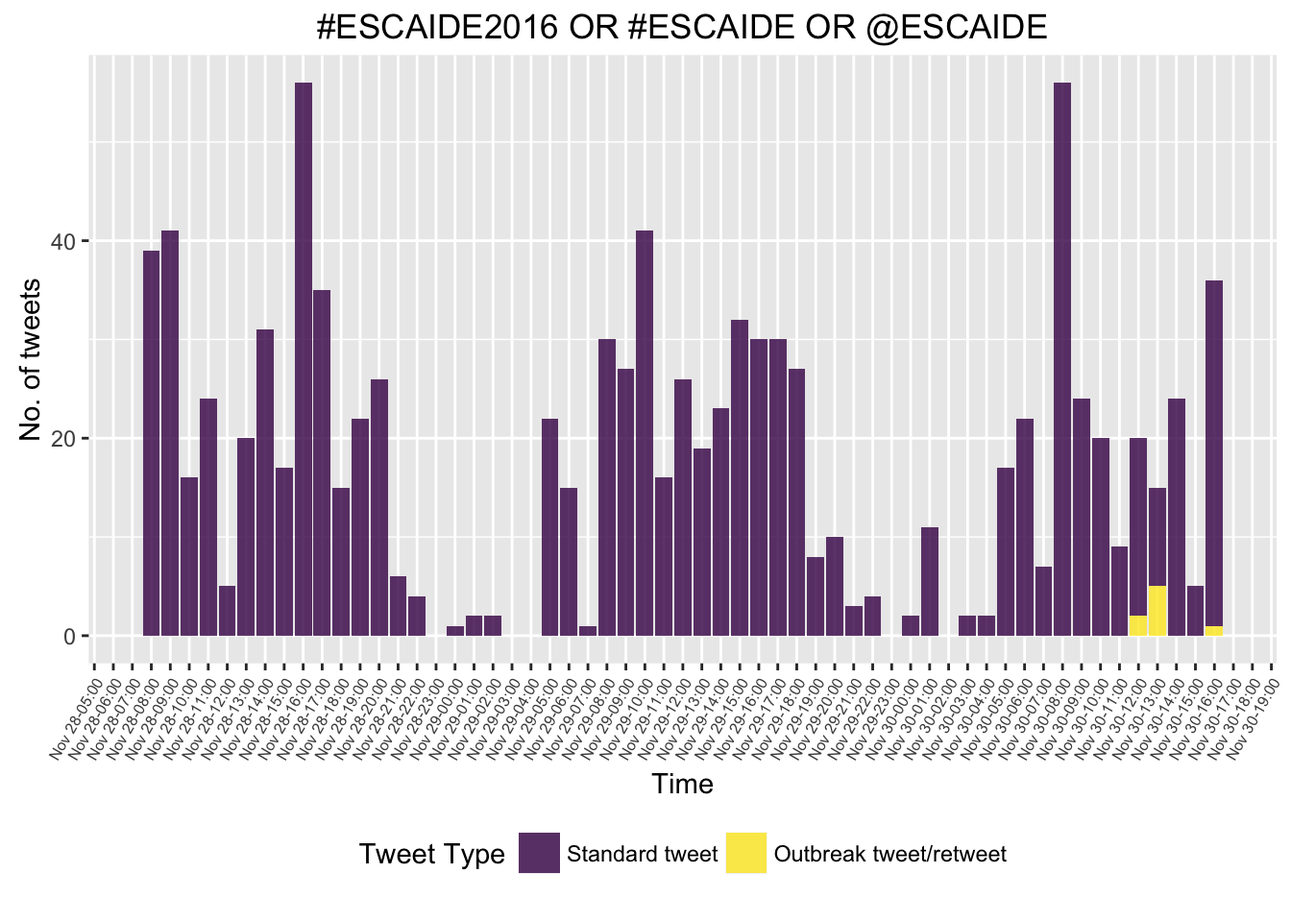
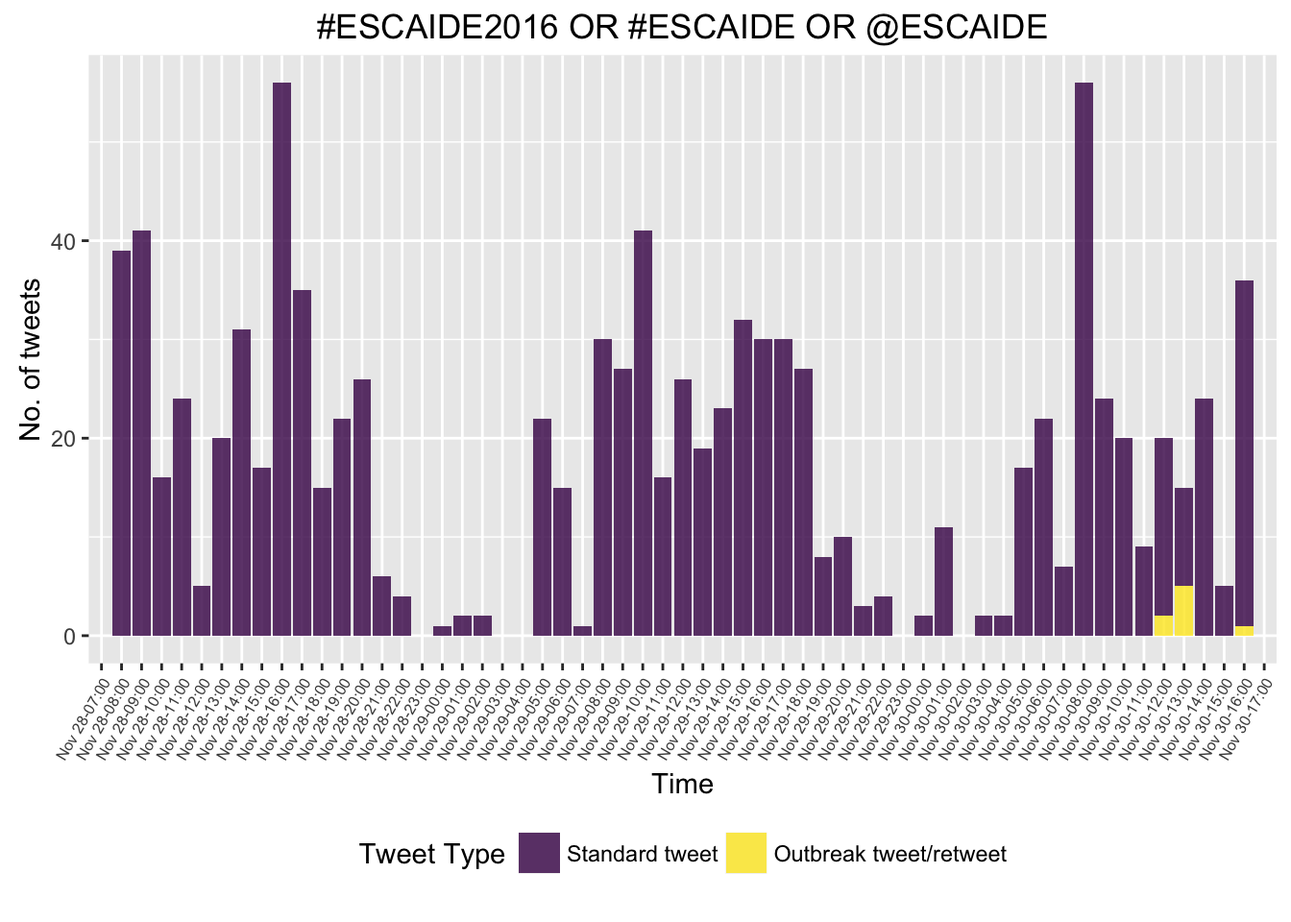
trying to merge with unpushed previous work (git stage sucks)

Changed region(s): [[0.0312, 0.0625, 1.0, 0.8438]]

diff --git a/docs/articles/sts-conversions.html b/docs/articles/sts-conversions.html
@@ -118,8 +118,8 @@ haxts &lt;-<span class="st"> </span><span class="kw">as.xts</span>(ha.sts)
 <p>Up to old <strong>xts</strong> 0.9-7, this will only plot the first time series Newer versions of <strong>xts</strong> are available from the <a href="https://github.com/joshuaulrich/xts"><strong>xts</strong> GitHub repository</a>.</p>
 <p>This also enables the use of the <a href="https://CRAN.R-project.org/package=dygraphs"><strong>dygraphs</strong></a> package for interactive visualization:</p>
 <div class="sourceCode"><pre class="sourceCode r"><code class="sourceCode r">dygraphs::<span class="kw">dygraph</span>(haxts)</code></pre></div>
-<div id="htmlwidget-6008" style="width:100%;height:480px;" class="dygraphs html-widget"></div>
-<script type="application/json" data-for="htmlwidget-6008">{"x":{"attrs":{"labels":["week","chwi","frkr","lich","mahe","mitt","neuk","pank","rein","span","zehl","scho","trko"],"legend":"auto","retainDateWindow":false,"axes":{"x":{"pixelsPerLabel":60}}},"scale":"weekly","annotations":[],"shadings":[],"events":[],"format":"date","data":[["2001-01-01T00:00:00.000Z","2001-01-08T00:00:00.000Z","2001-01-15T00:00:00.000Z","2001-01-22T00:00:00.000Z","2001-01-29T00:00:00.000Z","2001-02-05T00:00:00.000Z","2001-02-12T00:00:00.000Z","2001-02-19T00:00:00.000Z","2001-02-26T00:00:00.000Z","2001-03-05T00:00:00.000Z","2001-03-12T00:00:00.000Z","2001-03-19T00:00:00.000Z","2001-03-26T00:00:00.000Z","2001-04-02T00:00:00.000Z","2001-04-09T00:00:00.000Z","2001-04-16T00:00:00.000Z","2001-04-23T00:00:00.000Z","2001-04-30T00:00:00.000Z","2001-05-07T00:00:00.000Z","2001-05-14T00:00:00.000Z","2001-05-21T00:00:00.000Z","2001-05-28T00:00:00.000Z","2001-06-04T00:00:00.000Z","2001-06-11T00:00:00.000Z","2001-06-18T00:00:00.000Z","2001-06-25T00:00:00.000Z","2001-07-02T00:00:00.000Z","2001-07-09T00:00:00.000Z","2001-07-16T00:00:00.000Z","2001-07-23T00:00:00.000Z","2001-07-30T00:00:00.000Z","2001-08-06T00:00:00.000Z","2001-08-13T00:00:00.000Z","2001-08-20T00:00:00.000Z","2001-08-27T00:00:00.000Z","2001-09-03T00:00:00.000Z","2001-09-10T00:00:00.000Z","2001-09-17T00:00:00.000Z","2001-09-24T00:00:00.000Z","2001-10-01T00:00:00.000Z","2001-10-08T00:00:00.000Z","2001-10-15T00:00:00.000Z","2001-10-22T00:00:00.000Z","2001-10-29T00:00:00.000Z","2001-11-05T00:00:00.000Z","2001-11-12T00:00:00.000Z","2001-11-19T00:00:00.000Z","2001-11-26T00:00:00.000Z","2001-12-03T00:00:00.000Z","2001-12-10T00:00:00.000Z","2001-12-17T00:00:00.000Z","2001-12-24T00:00:00.000Z","2001-12-31T00:00:00.000Z","2002-01-07T00:00:00.000Z","2002-01-14T00:00:00.000Z","2002-01-21T00:00:00.000Z","2002-01-28T00:00:00.000Z","2002-02-04T00:00:00.000Z","2002-02-11T00:00:00.000Z","2002-02-18T00:00:00.000Z","2002-02-25T00:00:00.000Z","2002-03-04T00:00:00.000Z","2002-03-11T00:00:00.000Z","2002-03-18T00:00:00.000Z","2002-03-25T00:00:00.000Z","2002-04-01T00:00:00.000Z","2002-04-08T00:00:00.000Z","2002-04-15T00:00:00.000Z","2002-04-22T00:00:00.000Z","2002-04-29T00:00:00.000Z","2002-05-06T00:00:00.000Z","2002-05-13T00:00:00.000Z","2002-05-20T00:00:00.000Z","2002-05-27T00:00:00.000Z","2002-06-03T00:00:00.000Z","2002-06-10T00:00:00.000Z","2002-06-17T00:00:00.000Z","2002-06-24T00:00:00.000Z","2002-07-01T00:00:00.000Z","2002-07-08T00:00:00.000Z","2002-07-15T00:00:00.000Z","2002-07-22T00:00:00.000Z","2002-07-29T00:00:00.000Z","2002-08-05T00:00:00.000Z","2002-08-12T00:00:00.000Z","2002-08-19T00:00:00.000Z","2002-08-26T00:00:00.000Z","2002-09-02T00:00:00.000Z","2002-09-09T00:00:00.000Z","2002-09-16T00:00:00.000Z","2002-09-23T00:00:00.000Z","2002-09-30T00:00:00.000Z","2002-10-07T00:00:00.000Z","2002-10-14T00:00:00.000Z","2002-10-21T00:00:00.000Z","2002-10-28T00:00:00.000Z","2002-11-04T00:00:00.000Z","2002-11-11T00:00:00.000Z","2002-11-18T00:00:00.000Z","2002-11-25T00:00:00.000Z","2002-12-02T00:00:00.000Z","2002-12-09T00:00:00.000Z","2002-12-16T00:00:00.000Z","2002-12-23T00:00:00.000Z","2002-12-30T00:00:00.000Z","2003-01-06T00:00:00.000Z","2003-01-13T00:00:00.000Z","2003-01-20T00:00:00.000Z","2003-01-27T00:00:00.000Z","2003-02-03T00:00:00.000Z","2003-02-10T00:00:00.000Z","2003-02-17T00:00:00.000Z","2003-02-24T00:00:00.000Z","2003-03-03T00:00:00.000Z","2003-03-10T00:00:00.000Z","2003-03-17T00:00:00.000Z","2003-03-24T00:00:00.000Z","2003-03-31T00:00:00.000Z","2003-04-07T00:00:00.000Z","2003-04-14T00:00:00.000Z","2003-04-21T00:00:00.000Z","2003-04-28T00:00:00.000Z","2003-05-05T00:00:00.000Z","2003-05-12T00:00:00.000Z","2003-05-19T00:00:00.000Z","2003-05-26T00:00:00.000Z","2003-06-02T00:00:00.000Z","2003-06-09T00:00:00.000Z","2003-06-16T00:00:00.000Z","2003-06-23T00:00:00.000Z","2003-06-30T00:00:00.000Z","2003-07-07T00:00:00.000Z","2003-07-14T00:00:00.000Z","2003-07-21T00:00:00.000Z","2003-07-28T00:00:00.000Z","2003-08-04T00:00:00.000Z","2003-08-11T00:00:00.000Z","2003-08-18T00:00:00.000Z","2003-08-25T00:00:00.000Z","2003-09-01T00:00:00.000Z","2003-09-08T00:00:00.000Z","2003-09-15T00:00:00.000Z","2003-09-22T00:00:00.000Z","2003-09-29T00:00:00.000Z","2003-10-06T00:00:00.000Z","2003-10-13T00:00:00.000Z","2003-10-20T00:00:00.000Z","2003-10-27T00:00:00.000Z","2003-11-03T00:00:00.000Z","2003-11-10T00:00:00.000Z","2003-11-17T00:00:00.000Z","2003-11-24T00:00:00.000Z","2003-12-01T00:00:00.000Z","2003-12-08T00:00:00.000Z","2003-12-15T00:00:00.000Z","2003-12-22T00:00:00.000Z","2003-12-29T00:00:00.000Z","2004-01-05T00:00:00.000Z","2004-01-12T00:00:00.000Z","2004-01-19T00:00:00.000Z","2004-01-26T00:00:00.000Z","2004-02-02T00:00:00.000Z","2004-02-09T00:00:00.000Z","2004-02-16T00:00:00.000Z","2004-02-23T00:00:00.000Z","2004-03-01T00:00:00.000Z","2004-03-08T00:00:00.000Z","2004-03-15T00:00:00.000Z","2004-03-22T00:00:00.000Z","2004-03-29T00:00:00.000Z","2004-04-05T00:00:00.000Z","2004-04-12T00:00:00.000Z","2004-04-19T00:00:00.000Z","2004-04-26T00:00:00.000Z","2004-05-03T00:00:00.000Z","2004-05-10T00:00:00.000Z","2004-05-17T00:00:00.000Z","2004-05-24T00:00:00.000Z","2004-05-31T00:00:00.000Z","2004-06-07T00:00:00.000Z","2004-06-14T00:00:00.000Z","2004-06-21T00:00:00.000Z","2004-06-28T00:00:00.000Z","2004-07-05T00:00:00.000Z","2004-07-12T00:00:00.000Z","2004-07-19T00:00:00.000Z","2004-07-26T00:00:00.000Z","2004-08-02T00:00:00.000Z","2004-08-09T00:00:00.000Z","2004-08-16T00:00:00.000Z","2004-08-23T00:00:00.000Z","2004-08-30T00:00:00.000Z","2004-09-06T00:00:00.000Z","2004-09-13T00:00:00.000Z","2004-09-20T00:00:00.000Z","2004-09-27T00:00:00.000Z","2004-10-04T00:00:00.000Z","2004-10-11T00:00:00.000Z","2004-10-18T00:00:00.000Z","2004-10-25T00:00:00.000Z","2004-11-01T00:00:00.000Z","2004-11-08T00:00:00.000Z","2004-11-15T00:00:00.000Z","2004-11-22T00:00:00.000Z","2004-11-29T00:00:00.000Z","2004-12-06T00:00:00.000Z","2004-12-13T00:00:00.000Z","2004-12-20T00:00:00.000Z","2004-12-27T00:00:00.000Z","2005-01-03T00:00:00.000Z","2005-01-10T00:00:00.000Z","2005-01-17T00:00:00.000Z","2005-01-24T00:00:00.000Z","2005-01-31T00:00:00.000Z","2005-02-07T00:00:00.000Z","2005-02-14T00:00:00.000Z","2005-02-21T00:00:00.000Z","2005-02-28T00:00:00.000Z","2005-03-07T00:00:00.000Z","2005-03-14T00:00:00.000Z","2005-03-21T00:00:00.000Z","2005-03-28T00:00:00.000Z","2005-04-04T00:00:00.000Z","2005-04-11T00:00:00.000Z","2005-04-18T00:00:00.000Z","2005-04-25T00:00:00.000Z","2005-05-02T00:00:00.000Z","2005-05-09T00:00:00.000Z","2005-05-16T00:00:00.000Z","2005-05-23T00:00:00.000Z","2005-05-30T00:00:00.000Z","2005-06-06T00:00:00.000Z","2005-06-13T00:00:00.000Z","2005-06-20T00:00:00.000Z","2005-06-27T00:00:00.000Z","2005-07-04T00:00:00.000Z","2005-07-11T00:00:00.000Z","2005-07-18T00:00:00.000Z","2005-07-25T00:00:00.000Z","2005-08-01T00:00:00.000Z","2005-08-08T00:00:00.000Z","2005-08-15T00:00:00.000Z","2005-08-22T00:00:00.000Z","2005-08-29T00:00:00.000Z","2005-09-05T00:00:00.000Z","2005-09-12T00:00:00.000Z","2005-09-19T00:00:00.000Z","2005-09-26T00:00:00.000Z","2005-10-03T00:00:00.000Z","2005-10-10T00:00:00.000Z","2005-10-17T00:00:00.000Z","2005-10-24T00:00:00.000Z","2005-10-31T00:00:00.000Z","2005-11-07T00:00:00.000Z","2005-11-14T00:00:00.000Z","2005-11-21T00:00:00.000Z","2005-11-28T00:00:00.000Z","2005-12-05T00:00:00.000Z","2005-12-12T00:00:00.000Z","2005-12-19T00:00:00.000Z","2005-12-26T00:00:00.000Z","2006-01-02T00:00:00.000Z","2006-01-09T00:00:00.000Z","2006-01-16T00:00:00.000Z","2006-01-23T00:00:00.000Z","2006-01-30T00:00:00.000Z","2006-02-06T00:00:00.000Z","2006-02-13T00:00:00.000Z","2006-02-20T00:00:00.000Z","2006-02-27T00:00:00.000Z","2006-03-06T00:00:00.000Z","2006-03-13T00:00:00.000Z","2006-03-20T00:00:00.000Z","2006-03-27T00:00:00.000Z","2006-04-03T00:00:00.000Z","2006-04-10T00:00:00.000Z","2006-04-17T00:00:00.000Z","2006-04-24T00:00:00.000Z","2006-05-01T00:00:00.000Z","2006-05-08T00:00:00.000Z","2006-05-15T00:00:00.000Z","2006-05-22T00:00:00.000Z","2006-05-29T00:00:00.000Z","2006-06-05T00:00:00.000Z","2006-06-12T00:00:00.000Z","2006-06-19T00:00:00.000Z","2006-06-26T00:00:00.000Z","2006-07-03T00:00:00.000Z","2006-07-10T00:00:00.000Z","2006-07-17T00:00:00.000Z"],[0,0,0,0,0,0,0,0,0,1,0,1,1,0,1,0,1,0,0,0,0,1,0,0,0,0,0,0,0,0,0,0,1,0,0,0,1,0,0,0,1,0,1,0,0,0,0,0,0,1,1,0,2,0,0,0,1,1,0,0,0,0,0,0,0,0,0,0,0,0,0,0,0,0,0,0,0,0,0,0,1,1,0,0,1,1,0,0,0,0,0,0,0,0,0,0,0,0,0,0,0,0,0,0,0,1,0,0,0,0,0,0,0,0,0,0,1,0,0,0,0,0,0,0,0,0,0,0,0,0,0,0,0,0,0,0,0,0,0,0,0,0,1,0,0,0,0,0,0,0,0,0,0,1,0,0,0,0,0,0,0,0,0,0,0,0,0,0,0,0,0,0,0,0,0,0,0,0,0,0,0,0,0,0,0,0,0,0,1,1,0,0,0,0,0,0,0,1,0,0,0,0,0,0,0,0,0,0,1,0,0,0,1,0,0,0,0,0,0,0,0,0,0,0,0,0,0,0,0,0,1,0,0,0,0,0,0,0,0,0,0,0,0,0,0,0,0,0,0,0,0,0,0,0,1,0,0,0,0,0,0,0,0,0,0,0,0,1,0,0,0,0,0,0,0,0,1,0,1,0,0,0,0,0,0,0,0,0,0,0],[0,0,0,0,0,0,0,0,0,0,0,0,1,1,0,0,0,0,0,1,0,0,0,0,1,0,0,0,0,0,0,0,0,0,0,0,0,0,0,1,0,0,0,0,0,0,0,0,1,0,0,0,0,0,0,1,0,0,0,0,0,0,0,0,0,0,1,0,0,0,0,1,0,0,0,0,0,0,0,0,0,0,0,0,0,0,0,0,0,1,1,1,1,0,0,0,0,0,0,0,0,0,0,0,0,0,0,0,0,0,0,0,0,0,0,0,0,0,0,0,0,0,0,0,1,0,0,0,0,0,0,0,0,1,0,0,0,0,0,0,0,0,0,0,0,0,0,0,1,0,0,0,0,0,0,0,0,0,0,0,0,0,0,1,0,0,0,0,1,0,0,0,0,0,0,0,0,0,0,0,0,0,0,1,0,0,0,0,0,0,0,0,0,0,0,0,0,1,1,0,0,0,0,0,0,0,0,0,0,0,0,0,0,0,0,0,1,0,0,0,0,0,0,0,0,1,0,0,0,0,0,0,0,1,0,0,0,0,0,0,0,0,0,0,0,0,1,0,0,0,0,0,0,0,0,0,0,0,0,0,0,0,0,0,0,0,1,0,0,0,0,0,0,0,0,0,1,0,0,0,0,0,0,0,0,1,1,0,0,0],[0,0,0,0,0,0,0,0,0,0,0,0,0,0,1,0,0,0,0,0,0,0,0,0,0,0,0,0,0,0,0,0,0,0,0,0,0,0,0,0,0,0,0,0,0,0,0,0,0,0,0,0,0,0,0,0,0,0,0,0,0,0,0,0,0,0,0,0,0,0,0,0,0,0,0,0,0,0,0,0,0,0,0,0,0,0,0,0,0,0,0,0,0,0,0,0,0,0,0,0,0,0,0,0,0,0,0,0,0,0,0,0,0,0,0,0,0,0,0,1,0,0,0,0,0,0,0,0,0,0,0,0,0,0,0,0,0,0,0,0,0,0,0,1,0,0,0,0,0,0,0,0,0,0,0,0,0,0,0,0,0,0,0,0,0,0,1,0,0,0,0,0,0,0,0,0,0,0,0,0,0,0,0,0,0,0,0,0,0,0,0,0,0,0,0,0,0,0,0,0,0,0,0,0,0,0,0,0,0,0,0,0,0,0,0,0,0,0,0,0,0,0,0,0,0,0,0,0,0,0,0,0,0,0,0,0,0,0,0,0,0,0,0,0,0,0,0,0,0,0,0,0,0,0,0,0,0,0,0,0,0,0,0,0,0,0,0,0,0,1,0,0,0,0,0,0,0,0,1,2,0,0,0,0,0,1,0,0,0,0],[0,0,0,0,0,0,0,0,0,0,0,0,0,0,0,0,0,0,0,0,0,0,0,0,0,0,0,0,0,0,0,0,1,0,0,0,0,0,0,0,0,0,0,0,0,0,0,0,0,0,0,0,0,0,0,0,0,0,0,0,0,0,0,0,0,0,0,0,0,0,0,0,0,0,0,0,0,0,0,0,0,0,0,0,0,0,0,0,0,0,0,0,0,0,0,0,1,0,0,0,0,0,0,0,0,0,0,0,1,0,0,0,0,0,0,0,0,0,0,0,1,0,0,0,0,0,0,0,0,0,0,0,0,0,0,0,0,0,0,0,0,0,0,0,0,0,0,0,0,0,0,0,0,0,0,0,0,0,0,0,0,0,0,0,0,0,0,0,0,0,0,0,0,0,0,0,0,0,0,0,0,0,0,0,0,0,0,0,0,1,0,0,0,0,0,0,0,0,0,0,0,0,0,0,0,0,0,0,0,0,0,0,0,0,0,0,0,0,0,0,0,0,0,0,0,0,0,0,0,0,0,0,0,0,0,0,0,0,0,0,0,0,0,0,0,0,0,0,0,0,0,0,0,0,0,0,0,0,0,0,0,0,0,0,0,0,0,0,0,0,0,0,0,0,0,0,0,0,0,0,0,0,0,0,0,0,0,1,0,0],[0,0,0,0,0,0,2,0,1,1,1,0,0,0,0,0,0,0,2,0,0,1,0,0,0,1,1,0,0,0,0,1,0,0,0,0,0,0,2,0,0,0,0,0,0,0,0,0,0,0,0,0,0,0,0,0,1,0,0,0,0,0,0,0,0,0,0,0,1,0,0,0,0,0,0,0,0,0,0,0,0,0,0,0,0,0,0,0,0,0,1,0,1,0,0,0,0,0,0,0,0,0,1,0,0,0,0,0,0,0,0,0,0,0,0,0,0,0,0,0,0,0,0,0,0,0,0,0,0,0,0,0,0,1,0,0,0,0,0,0,0,1,0,0,0,1,0,0,0,0,0,0,0,0,0,1,0,0,1,0,2,0,0,0,0,0,0,1,0,0,0,0,0,1,0,0,0,0,1,0,1,0,0,0,0,0,0,0,0,1,0,0,1,0,0,0,0,0,0,1,0,0,1,0,0,0,0,0,1,0,0,0,0,0,0,0,0,0,0,0,0,0,0,0,0,0,0,0,0,0,0,0,0,0,0,0,0,0,0,0,0,0,0,0,0,0,0,0,0,0,0,0,0,0,0,0,0,0,0,0,0,0,0,0,0,0,0,0,0,0,0,0,0,0,0,0,0,0,0,0,0,1,0,0,0,1,3,0,0,0],[0,0,1,0,0,1,1,0,0,0,0,0,0,1,0,0,0,0,0,1,0,1,0,0,0,0,1,0,0,0,0,0,0,0,0,0,0,0,0,0,0,0,0,0,1,0,0,0,0,0,0,0,0,0,0,0,0,0,0,0,0,0,0,0,0,0,0,0,0,0,0,0,0,0,0,0,0,0,0,0,0,0,0,0,1,0,0,0,0,0,0,0,0,0,0,0,0,0,0,0,0,0,0,0,0,0,0,0,0,0,0,0,0,0,0,0,0,0,0,0,2,0,0,0,0,0,0,0,0,0,0,0,0,0,0,0,0,0,0,0,0,0,0,0,0,0,0,0,0,0,0,0,0,0,0,0,0,0,1,0,0,0,0,0,0,0,2,0,0,1,0,0,0,0,0,0,0,0,1,0,0,0,0,0,0,0,0,0,0,0,0,0,0,0,0,0,0,0,0,0,0,0,0,1,0,0,0,0,0,0,0,0,0,0,0,0,0,0,0,0,0,0,0,0,0,0,0,0,1,0,0,0,0,0,0,0,0,0,0,0,0,0,0,0,0,0,0,0,0,0,0,0,0,0,0,0,0,0,0,1,0,0,0,0,0,0,0,0,0,0,0,0,1,0,0,0,0,0,0,0,0,0,1,0,0,1,0,0,1,1],[0,0,0,0,0,1,0,0,0,0,0,1,0,1,0,2,0,1,0,0,0,0,0,0,2,0,0,0,1,0,0,1,1,0,1,0,0,0,0,0,0,0,1,0,0,0,0,0,0,0,0,0,0,0,0,0,0,0,0,0,0,0,0,0,0,0,0,0,0,0,0,0,0,0,0,0,0,2,0,0,0,0,0,0,0,0,0,0,0,0,1,0,0,0,0,0,1,0,1,0,0,0,0,0,0,0,0,0,0,0,0,1,0,0,0,0,0,0,0,0,0,0,0,0,0,0,0,0,0,0,0,0,0,0,0,0,0,0,0,0,1,0,0,1,0,0,0,0,1,0,0,0,1,1,1,0,1,1,0,0,0,0,0,0,1,2,0,0,0,0,0,0,0,0,0,0,0,0,0,0,0,1,0,0,0,0,0,0,0,0,0,0,0,0,0,0,0,0,1,1,0,0,0,0,0,0,0,0,0,1,0,0,0,0,0,0,0,0,0,0,0,0,0,0,0,0,0,0,1,0,0,0,1,0,0,0,0,0,0,0,0,0,0,0,0,0,0,0,0,0,0,0,1,0,0,0,0,0,0,0,0,0,0,0,0,0,0,0,0,0,0,0,0,0,0,0,0,0,0,0,1,1,0,1,0,2,1,3,0,0],[0,0,0,0,2,1,0,0,0,0,0,0,0,0,0,0,0,1,0,0,0,1,0,0,0,0,0,0,0,0,1,0,0,0,0,0,0,0,0,0,0,0,0,0,0,0,0,0,0,0,0,0,1,0,0,0,0,0,0,0,0,0,0,0,0,0,0,0,0,0,0,0,0,0,0,0,0,0,0,0,0,0,0,0,0,0,0,0,0,0,0,0,0,0,0,0,0,0,0,0,0,0,0,0,0,0,0,0,0,0,0,0,0,0,0,1,0,0,0,0,0,0,0,0,0,0,0,0,0,0,0,0,0,0,0,0,0,0,0,1,0,0,0,0,1,0,0,0,0,0,0,0,0,0,0,0,0,0,0,0,0,0,0,0,0,0,0,0,0,0,0,0,0,0,0,0,0,0,0,0,0,0,0,1,0,0,0,0,0,0,0,0,0,0,0,1,0,0,0,0,0,0,0,0,0,0,0,0,0,2,0,0,0,0,0,0,0,0,0,0,0,0,0,0,0,0,0,0,0,0,0,0,0,0,0,0,0,0,0,0,0,0,0,0,0,0,0,0,0,0,1,0,0,0,0,0,0,0,0,0,0,0,0,1,0,0,0,0,0,0,0,0,0,0,0,0,1,0,0,0,0,1,0,1,0,0,0,0,0,0],[0,0,0,0,0,0,0,0,0,0,0,0,0,0,0,0,0,0,0,0,0,0,0,0,0,0,0,0,0,0,0,0,0,0,0,0,0,0,0,0,0,0,0,0,0,0,0,1,0,0,0,0,0,0,0,0,0,0,1,0,0,0,0,0,0,0,0,0,0,0,0,0,0,0,1,0,0,0,0,0,0,0,0,0,0,0,0,0,0,0,1,0,0,0,0,0,0,0,0,0,0,0,0,0,0,0,0,0,0,0,0,0,0,0,0,0,0,0,0,1,0,0,0,1,0,0,0,0,0,0,0,0,0,0,0,0,0,0,0,0,0,0,0,0,0,0,0,0,0,0,0,0,0,0,0,0,0,0,0,0,0,0,0,0,0,0,0,0,0,0,0,0,0,0,0,0,0,0,0,0,0,0,0,0,0,0,0,0,0,0,0,0,0,0,0,1,0,0,0,1,0,0,1,1,0,0,0,0,0,0,1,0,0,0,0,0,0,0,0,0,0,0,0,0,0,0,0,1,0,0,0,0,0,0,0,0,0,0,0,0,0,0,0,0,0,0,0,0,0,0,0,0,0,0,0,0,0,0,0,0,0,0,0,0,0,0,0,0,0,0,0,0,0,0,0,0,0,0,0,0,0,0,0,0,0,0,0,0,0,0],[0,0,0,0,0,0,0,0,0,0,0,0,0,0,0,0,0,1,0,0,0,0,1,0,0,0,0,0,0,0,0,1,0,0,0,0,0,0,2,0,0,0,0,0,0,0,0,0,0,0,0,0,0,0,0,0,0,0,0,0,0,0,0,0,0,0,0,0,0,0,0,0,0,0,0,0,0,0,0,0,0,2,0,0,0,1,0,1,0,0,0,0,0,1,0,0,0,0,0,0,0,0,0,0,0,0,0,0,1,0,0,0,1,0,1,0,0,0,0,0,0,0,0,0,0,0,0,0,1,0,0,0,0,0,0,0,0,0,0,0,0,0,0,0,0,1,0,0,0,0,0,0,0,0,0,0,0,0,0,1,0,0,0,0,0,0,0,0,0,0,0,0,0,0,0,0,0,0,0,0,0,0,0,0,0,0,0,0,0,0,0,0,0,0,0,0,0,0,0,0,0,1,0,0,0,0,0,0,0,0,0,0,0,0,0,0,0,0,0,0,0,0,0,0,0,0,0,0,0,0,0,0,0,0,0,0,0,0,0,0,0,0,0,0,0,0,0,0,0,0,0,0,0,0,0,0,0,0,0,0,0,0,0,0,0,0,0,0,0,0,1,0,0,0,0,0,0,0,0,0,0,0,0,1,0,0,0,0,0,0],[0,0,0,0,0,0,0,0,0,0,1,1,0,0,0,2,0,2,0,1,0,0,0,1,1,1,1,0,0,0,0,0,0,1,1,0,0,1,0,0,0,0,1,1,1,0,0,0,0,0,1,0,0,0,0,0,1,0,0,0,0,0,0,0,0,0,0,0,0,1,0,0,0,0,0,0,0,0,0,0,0,1,0,0,0,0,0,0,0,0,0,0,0,0,1,0,0,0,0,0,1,0,0,0,1,0,0,0,0,0,0,0,0,0,0,0,0,0,0,0,0,0,0,1,0,0,0,0,0,0,0,0,0,1,0,0,0,0,0,0,0,0,0,0,0,0,1,0,0,2,1,0,0,0,0,0,0,0,0,0,0,0,0,0,0,0,0,0,0,0,0,0,0,0,0,0,0,0,0,0,0,0,1,0,0,0,1,0,0,0,0,0,0,0,1,1,0,0,0,0,0,1,0,0,0,0,1,1,0,0,0,0,0,1,0,0,1,0,0,0,0,0,1,0,0,0,0,0,0,0,0,0,0,0,0,0,0,0,0,0,0,0,0,0,0,0,0,0,0,0,0,1,0,0,0,0,0,0,0,0,0,0,0,0,0,0,0,0,0,0,0,1,1,0,1,1,0,1,1,1,0,0,0,0,1,0,0,0,1,0],[0,0,0,0,0,0,0,0,0,0,0,0,0,0,0,0,0,0,0,0,0,0,0,0,0,0,0,0,0,0,0,0,0,0,0,0,0,0,0,0,0,0,0,0,0,0,0,0,1,0,0,0,0,0,0,0,0,0,0,0,0,0,0,0,0,0,0,0,0,0,0,0,0,0,0,0,0,0,0,0,0,0,0,0,0,0,0,0,0,0,0,0,0,0,0,0,0,0,0,0,0,0,0,0,0,0,0,0,0,0,0,0,0,0,0,0,0,0,0,0,0,0,0,0,0,0,0,0,0,0,0,0,0,0,0,0,0,0,0,0,0,0,0,0,0,0,0,0,0,0,0,0,0,0,0,0,0,0,0,0,0,0,0,0,0,0,0,0,0,0,0,0,0,0,0,0,0,0,0,0,0,0,0,1,0,0,0,0,0,0,0,0,0,0,0,0,0,0,0,0,0,0,0,0,0,0,0,0,0,0,0,0,0,0,0,0,0,0,0,0,0,0,0,0,0,1,0,0,0,1,0,0,0,0,0,0,0,0,0,0,0,0,0,0,0,0,0,1,0,0,0,0,0,0,0,0,0,0,0,0,0,0,0,0,0,0,0,0,0,0,0,0,0,0,0,0,0,1,0,0,0,0,0,0,0,0,0,0,0,1]]},"evals":[],"jsHooks":[]}</script></div>
+<div id="htmlwidget-808" style="width:100%;height:480px;" class="dygraphs html-widget"></div>
+<script type="application/json" data-for="htmlwidget-808">{"x":{"attrs":{"labels":["week","chwi","frkr","lich","mahe","mitt","neuk","pank","rein","span","zehl","scho","trko"],"legend":"auto","retainDateWindow":false,"axes":{"x":{"pixelsPerLabel":60}}},"scale":"weekly","annotations":[],"shadings":[],"events":[],"format":"date","data":[["2001-01-01T00:00:00.000Z","2001-01-08T00:00:00.000Z","2001-01-15T00:00:00.000Z","2001-01-22T00:00:00.000Z","2001-01-29T00:00:00.000Z","2001-02-05T00:00:00.000Z","2001-02-12T00:00:00.000Z","2001-02-19T00:00:00.000Z","2001-02-26T00:00:00.000Z","2001-03-05T00:00:00.000Z","2001-03-12T00:00:00.000Z","2001-03-19T00:00:00.000Z","2001-03-26T00:00:00.000Z","2001-04-02T00:00:00.000Z","2001-04-09T00:00:00.000Z","2001-04-16T00:00:00.000Z","2001-04-23T00:00:00.000Z","2001-04-30T00:00:00.000Z","2001-05-07T00:00:00.000Z","2001-05-14T00:00:00.000Z","2001-05-21T00:00:00.000Z","2001-05-28T00:00:00.000Z","2001-06-04T00:00:00.000Z","2001-06-11T00:00:00.000Z","2001-06-18T00:00:00.000Z","2001-06-25T00:00:00.000Z","2001-07-02T00:00:00.000Z","2001-07-09T00:00:00.000Z","2001-07-16T00:00:00.000Z","2001-07-23T00:00:00.000Z","2001-07-30T00:00:00.000Z","2001-08-06T00:00:00.000Z","2001-08-13T00:00:00.000Z","2001-08-20T00:00:00.000Z","2001-08-27T00:00:00.000Z","2001-09-03T00:00:00.000Z","2001-09-10T00:00:00.000Z","2001-09-17T00:00:00.000Z","2001-09-24T00:00:00.000Z","2001-10-01T00:00:00.000Z","2001-10-08T00:00:00.000Z","2001-10-15T00:00:00.000Z","2001-10-22T00:00:00.000Z","2001-10-29T00:00:00.000Z","2001-11-05T00:00:00.000Z","2001-11-12T00:00:00.000Z","2001-11-19T00:00:00.000Z","2001-11-26T00:00:00.000Z","2001-12-03T00:00:00.000Z","2001-12-10T00:00:00.000Z","2001-12-17T00:00:00.000Z","2001-12-24T00:00:00.000Z","2001-12-31T00:00:00.000Z","2002-01-07T00:00:00.000Z","2002-01-14T00:00:00.000Z","2002-01-21T00:00:00.000Z","2002-01-28T00:00:00.000Z","2002-02-04T00:00:00.000Z","2002-02-11T00:00:00.000Z","2002-02-18T00:00:00.000Z","2002-02-25T00:00:00.000Z","2002-03-04T00:00:00.000Z","2002-03-11T00:00:00.000Z","2002-03-18T00:00:00.000Z","2002-03-25T00:00:00.000Z","2002-04-01T00:00:00.000Z","2002-04-08T00:00:00.000Z","2002-04-15T00:00:00.000Z","2002-04-22T00:00:00.000Z","2002-04-29T00:00:00.000Z","2002-05-06T00:00:00.000Z","2002-05-13T00:00:00.000Z","2002-05-20T00:00:00.000Z","2002-05-27T00:00:00.000Z","2002-06-03T00:00:00.000Z","2002-06-10T00:00:00.000Z","2002-06-17T00:00:00.000Z","2002-06-24T00:00:00.000Z","2002-07-01T00:00:00.000Z","2002-07-08T00:00:00.000Z","2002-07-15T00:00:00.000Z","2002-07-22T00:00:00.000Z","2002-07-29T00:00:00.000Z","2002-08-05T00:00:00.000Z","2002-08-12T00:00:00.000Z","2002-08-19T00:00:00.000Z","2002-08-26T00:00:00.000Z","2002-09-02T00:00:00.000Z","2002-09-09T00:00:00.000Z","2002-09-16T00:00:00.000Z","2002-09-23T00:00:00.000Z","2002-09-30T00:00:00.000Z","2002-10-07T00:00:00.000Z","2002-10-14T00:00:00.000Z","2002-10-21T00:00:00.000Z","2002-10-28T00:00:00.000Z","2002-11-04T00:00:00.000Z","2002-11-11T00:00:00.000Z","2002-11-18T00:00:00.000Z","2002-11-25T00:00:00.000Z","2002-12-02T00:00:00.000Z","2002-12-09T00:00:00.000Z","2002-12-16T00:00:00.000Z","2002-12-23T00:00:00.000Z","2002-12-30T00:00:00.000Z","2003-01-06T00:00:00.000Z","2003-01-13T00:00:00.000Z","2003-01-20T00:00:00.000Z","2003-01-27T00:00:00.000Z","2003-02-03T00:00:00.000Z","2003-02-10T00:00:00.000Z","2003-02-17T00:00:00.000Z","2003-02-24T00:00:00.000Z","2003-03-03T00:00:00.000Z","2003-03-10T00:00:00.000Z","2003-03-17T00:00:00.000Z","2003-03-24T00:00:00.000Z","2003-03-31T00:00:00.000Z","2003-04-07T00:00:00.000Z","2003-04-14T00:00:00.000Z","2003-04-21T00:00:00.000Z","2003-04-28T00:00:00.000Z","2003-05-05T00:00:00.000Z","2003-05-12T00:00:00.000Z","2003-05-19T00:00:00.000Z","2003-05-26T00:00:00.000Z","2003-06-02T00:00:00.000Z","2003-06-09T00:00:00.000Z","2003-06-16T00:00:00.000Z","2003-06-23T00:00:00.000Z","2003-06-30T00:00:00.000Z","2003-07-07T00:00:00.000Z","2003-07-14T00:00:00.000Z","2003-07-21T00:00:00.000Z","2003-07-28T00:00:00.000Z","2003-08-04T00:00:00.000Z","2003-08-11T00:00:00.000Z","2003-08-18T00:00:00.000Z","2003-08-25T00:00:00.000Z","2003-09-01T00:00:00.000Z","2003-09-08T00:00:00.000Z","2003-09-15T00:00:00.000Z","2003-09-22T00:00:00.000Z","2003-09-29T00:00:00.000Z","2003-10-06T00:00:00.000Z","2003-10-13T00:00:00.000Z","2003-10-20T00:00:00.000Z","2003-10-27T00:00:00.000Z","2003-11-03T00:00:00.000Z","2003-11-10T00:00:00.000Z","2003-11-17T00:00:00.000Z","2003-11-24T00:00:00.000Z","2003-12-01T00:00:00.000Z","2003-12-08T00:00:00.000Z","2003-12-15T00:00:00.000Z","2003-12-22T00:00:00.000Z","2003-12-29T00:00:00.000Z","2004-01-05T00:00:00.000Z","2004-01-12T00:00:00.000Z","2004-01-19T00:00:00.000Z","2004-01-26T00:00:00.000Z","2004-02-02T00:00:00.000Z","2004-02-09T00:00:00.000Z","2004-02-16T00:00:00.000Z","2004-02-23T00:00:00.000Z","2004-03-01T00:00:00.000Z","2004-03-08T00:00:00.000Z","2004-03-15T00:00:00.000Z","2004-03-22T00:00:00.000Z","2004-03-29T00:00:00.000Z","2004-04-05T00:00:00.000Z","2004-04-12T00:00:00.000Z","2004-04-19T00:00:00.000Z","2004-04-26T00:00:00.000Z","2004-05-03T00:00:00.000Z","2004-05-10T00:00:00.000Z","2004-05-17T00:00:00.000Z","2004-05-24T00:00:00.000Z","2004-05-31T00:00:00.000Z","2004-06-07T00:00:00.000Z","2004-06-14T00:00:00.000Z","2004-06-21T00:00:00.000Z","2004-06-28T00:00:00.000Z","2004-07-05T00:00:00.000Z","2004-07-12T00:00:00.000Z","2004-07-19T00:00:00.000Z","2004-07-26T00:00:00.000Z","2004-08-02T00:00:00.000Z","2004-08-09T00:00:00.000Z","2004-08-16T00:00:00.000Z","2004-08-23T00:00:00.000Z","2004-08-30T00:00:00.000Z","2004-09-06T00:00:00.000Z","2004-09-13T00:00:00.000Z","2004-09-20T00:00:00.000Z","2004-09-27T00:00:00.000Z","2004-10-04T00:00:00.000Z","2004-10-11T00:00:00.000Z","2004-10-18T00:00:00.000Z","2004-10-25T00:00:00.000Z","2004-11-01T00:00:00.000Z","2004-11-08T00:00:00.000Z","2004-11-15T00:00:00.000Z","2004-11-22T00:00:00.000Z","2004-11-29T00:00:00.000Z","2004-12-06T00:00:00.000Z","2004-12-13T00:00:00.000Z","2004-12-20T00:00:00.000Z","2004-12-27T00:00:00.000Z","2005-01-03T00:00:00.000Z","2005-01-10T00:00:00.000Z","2005-01-17T00:00:00.000Z","2005-01-24T00:00:00.000Z","2005-01-31T00:00:00.000Z","2005-02-07T00:00:00.000Z","2005-02-14T00:00:00.000Z","2005-02-21T00:00:00.000Z","2005-02-28T00:00:00.000Z","2005-03-07T00:00:00.000Z","2005-03-14T00:00:00.000Z","2005-03-21T00:00:00.000Z","2005-03-28T00:00:00.000Z","2005-04-04T00:00:00.000Z","2005-04-11T00:00:00.000Z","2005-04-18T00:00:00.000Z","2005-04-25T00:00:00.000Z","2005-05-02T00:00:00.000Z","2005-05-09T00:00:00.000Z","2005-05-16T00:00:00.000Z","2005-05-23T00:00:00.000Z","2005-05-30T00:00:00.000Z","2005-06-06T00:00:00.000Z","2005-06-13T00:00:00.000Z","2005-06-20T00:00:00.000Z","2005-06-27T00:00:00.000Z","2005-07-04T00:00:00.000Z","2005-07-11T00:00:00.000Z","2005-07-18T00:00:00.000Z","2005-07-25T00:00:00.000Z","2005-08-01T00:00:00.000Z","2005-08-08T00:00:00.000Z","2005-08-15T00:00:00.000Z","2005-08-22T00:00:00.000Z","2005-08-29T00:00:00.000Z","2005-09-05T00:00:00.000Z","2005-09-12T00:00:00.000Z","2005-09-19T00:00:00.000Z","2005-09-26T00:00:00.000Z","2005-10-03T00:00:00.000Z","2005-10-10T00:00:00.000Z","2005-10-17T00:00:00.000Z","2005-10-24T00:00:00.000Z","2005-10-31T00:00:00.000Z","2005-11-07T00:00:00.000Z","2005-11-14T00:00:00.000Z","2005-11-21T00:00:00.000Z","2005-11-28T00:00:00.000Z","2005-12-05T00:00:00.000Z","2005-12-12T00:00:00.000Z","2005-12-19T00:00:00.000Z","2005-12-26T00:00:00.000Z","2006-01-02T00:00:00.000Z","2006-01-09T00:00:00.000Z","2006-01-16T00:00:00.000Z","2006-01-23T00:00:00.000Z","2006-01-30T00:00:00.000Z","2006-02-06T00:00:00.000Z","2006-02-13T00:00:00.000Z","2006-02-20T00:00:00.000Z","2006-02-27T00:00:00.000Z","2006-03-06T00:00:00.000Z","2006-03-13T00:00:00.000Z","2006-03-20T00:00:00.000Z","2006-03-27T00:00:00.000Z","2006-04-03T00:00:00.000Z","2006-04-10T00:00:00.000Z","2006-04-17T00:00:00.000Z","2006-04-24T00:00:00.000Z","2006-05-01T00:00:00.000Z","2006-05-08T00:00:00.000Z","2006-05-15T00:00:00.000Z","2006-05-22T00:00:00.000Z","2006-05-29T00:00:00.000Z","2006-06-05T00:00:00.000Z","2006-06-12T00:00:00.000Z","2006-06-19T00:00:00.000Z","2006-06-26T00:00:00.000Z","2006-07-03T00:00:00.000Z","2006-07-10T00:00:00.000Z","2006-07-17T00:00:00.000Z"],[0,0,0,0,0,0,0,0,0,1,0,1,1,0,1,0,1,0,0,0,0,1,0,0,0,0,0,0,0,0,0,0,1,0,0,0,1,0,0,0,1,0,1,0,0,0,0,0,0,1,1,0,2,0,0,0,1,1,0,0,0,0,0,0,0,0,0,0,0,0,0,0,0,0,0,0,0,0,0,0,1,1,0,0,1,1,0,0,0,0,0,0,0,0,0,0,0,0,0,0,0,0,0,0,0,1,0,0,0,0,0,0,0,0,0,0,1,0,0,0,0,0,0,0,0,0,0,0,0,0,0,0,0,0,0,0,0,0,0,0,0,0,1,0,0,0,0,0,0,0,0,0,0,1,0,0,0,0,0,0,0,0,0,0,0,0,0,0,0,0,0,0,0,0,0,0,0,0,0,0,0,0,0,0,0,0,0,0,1,1,0,0,0,0,0,0,0,1,0,0,0,0,0,0,0,0,0,0,1,0,0,0,1,0,0,0,0,0,0,0,0,0,0,0,0,0,0,0,0,0,1,0,0,0,0,0,0,0,0,0,0,0,0,0,0,0,0,0,0,0,0,0,0,0,1,0,0,0,0,0,0,0,0,0,0,0,0,1,0,0,0,0,0,0,0,0,1,0,1,0,0,0,0,0,0,0,0,0,0,0],[0,0,0,0,0,0,0,0,0,0,0,0,1,1,0,0,0,0,0,1,0,0,0,0,1,0,0,0,0,0,0,0,0,0,0,0,0,0,0,1,0,0,0,0,0,0,0,0,1,0,0,0,0,0,0,1,0,0,0,0,0,0,0,0,0,0,1,0,0,0,0,1,0,0,0,0,0,0,0,0,0,0,0,0,0,0,0,0,0,1,1,1,1,0,0,0,0,0,0,0,0,0,0,0,0,0,0,0,0,0,0,0,0,0,0,0,0,0,0,0,0,0,0,0,1,0,0,0,0,0,0,0,0,1,0,0,0,0,0,0,0,0,0,0,0,0,0,0,1,0,0,0,0,0,0,0,0,0,0,0,0,0,0,1,0,0,0,0,1,0,0,0,0,0,0,0,0,0,0,0,0,0,0,1,0,0,0,0,0,0,0,0,0,0,0,0,0,1,1,0,0,0,0,0,0,0,0,0,0,0,0,0,0,0,0,0,1,0,0,0,0,0,0,0,0,1,0,0,0,0,0,0,0,1,0,0,0,0,0,0,0,0,0,0,0,0,1,0,0,0,0,0,0,0,0,0,0,0,0,0,0,0,0,0,0,0,1,0,0,0,0,0,0,0,0,0,1,0,0,0,0,0,0,0,0,1,1,0,0,0],[0,0,0,0,0,0,0,0,0,0,0,0,0,0,1,0,0,0,0,0,0,0,0,0,0,0,0,0,0,0,0,0,0,0,0,0,0,0,0,0,0,0,0,0,0,0,0,0,0,0,0,0,0,0,0,0,0,0,0,0,0,0,0,0,0,0,0,0,0,0,0,0,0,0,0,0,0,0,0,0,0,0,0,0,0,0,0,0,0,0,0,0,0,0,0,0,0,0,0,0,0,0,0,0,0,0,0,0,0,0,0,0,0,0,0,0,0,0,0,1,0,0,0,0,0,0,0,0,0,0,0,0,0,0,0,0,0,0,0,0,0,0,0,1,0,0,0,0,0,0,0,0,0,0,0,0,0,0,0,0,0,0,0,0,0,0,1,0,0,0,0,0,0,0,0,0,0,0,0,0,0,0,0,0,0,0,0,0,0,0,0,0,0,0,0,0,0,0,0,0,0,0,0,0,0,0,0,0,0,0,0,0,0,0,0,0,0,0,0,0,0,0,0,0,0,0,0,0,0,0,0,0,0,0,0,0,0,0,0,0,0,0,0,0,0,0,0,0,0,0,0,0,0,0,0,0,0,0,0,0,0,0,0,0,0,0,0,0,0,1,0,0,0,0,0,0,0,0,1,2,0,0,0,0,0,1,0,0,0,0],[0,0,0,0,0,0,0,0,0,0,0,0,0,0,0,0,0,0,0,0,0,0,0,0,0,0,0,0,0,0,0,0,1,0,0,0,0,0,0,0,0,0,0,0,0,0,0,0,0,0,0,0,0,0,0,0,0,0,0,0,0,0,0,0,0,0,0,0,0,0,0,0,0,0,0,0,0,0,0,0,0,0,0,0,0,0,0,0,0,0,0,0,0,0,0,0,1,0,0,0,0,0,0,0,0,0,0,0,1,0,0,0,0,0,0,0,0,0,0,0,1,0,0,0,0,0,0,0,0,0,0,0,0,0,0,0,0,0,0,0,0,0,0,0,0,0,0,0,0,0,0,0,0,0,0,0,0,0,0,0,0,0,0,0,0,0,0,0,0,0,0,0,0,0,0,0,0,0,0,0,0,0,0,0,0,0,0,0,0,1,0,0,0,0,0,0,0,0,0,0,0,0,0,0,0,0,0,0,0,0,0,0,0,0,0,0,0,0,0,0,0,0,0,0,0,0,0,0,0,0,0,0,0,0,0,0,0,0,0,0,0,0,0,0,0,0,0,0,0,0,0,0,0,0,0,0,0,0,0,0,0,0,0,0,0,0,0,0,0,0,0,0,0,0,0,0,0,0,0,0,0,0,0,0,0,0,0,1,0,0],[0,0,0,0,0,0,2,0,1,1,1,0,0,0,0,0,0,0,2,0,0,1,0,0,0,1,1,0,0,0,0,1,0,0,0,0,0,0,2,0,0,0,0,0,0,0,0,0,0,0,0,0,0,0,0,0,1,0,0,0,0,0,0,0,0,0,0,0,1,0,0,0,0,0,0,0,0,0,0,0,0,0,0,0,0,0,0,0,0,0,1,0,1,0,0,0,0,0,0,0,0,0,1,0,0,0,0,0,0,0,0,0,0,0,0,0,0,0,0,0,0,0,0,0,0,0,0,0,0,0,0,0,0,1,0,0,0,0,0,0,0,1,0,0,0,1,0,0,0,0,0,0,0,0,0,1,0,0,1,0,2,0,0,0,0,0,0,1,0,0,0,0,0,1,0,0,0,0,1,0,1,0,0,0,0,0,0,0,0,1,0,0,1,0,0,0,0,0,0,1,0,0,1,0,0,0,0,0,1,0,0,0,0,0,0,0,0,0,0,0,0,0,0,0,0,0,0,0,0,0,0,0,0,0,0,0,0,0,0,0,0,0,0,0,0,0,0,0,0,0,0,0,0,0,0,0,0,0,0,0,0,0,0,0,0,0,0,0,0,0,0,0,0,0,0,0,0,0,0,0,0,1,0,0,0,1,3,0,0,0],[0,0,1,0,0,1,1,0,0,0,0,0,0,1,0,0,0,0,0,1,0,1,0,0,0,0,1,0,0,0,0,0,0,0,0,0,0,0,0,0,0,0,0,0,1,0,0,0,0,0,0,0,0,0,0,0,0,0,0,0,0,0,0,0,0,0,0,0,0,0,0,0,0,0,0,0,0,0,0,0,0,0,0,0,1,0,0,0,0,0,0,0,0,0,0,0,0,0,0,0,0,0,0,0,0,0,0,0,0,0,0,0,0,0,0,0,0,0,0,0,2,0,0,0,0,0,0,0,0,0,0,0,0,0,0,0,0,0,0,0,0,0,0,0,0,0,0,0,0,0,0,0,0,0,0,0,0,0,1,0,0,0,0,0,0,0,2,0,0,1,0,0,0,0,0,0,0,0,1,0,0,0,0,0,0,0,0,0,0,0,0,0,0,0,0,0,0,0,0,0,0,0,0,1,0,0,0,0,0,0,0,0,0,0,0,0,0,0,0,0,0,0,0,0,0,0,0,0,1,0,0,0,0,0,0,0,0,0,0,0,0,0,0,0,0,0,0,0,0,0,0,0,0,0,0,0,0,0,0,1,0,0,0,0,0,0,0,0,0,0,0,0,1,0,0,0,0,0,0,0,0,0,1,0,0,1,0,0,1,1],[0,0,0,0,0,1,0,0,0,0,0,1,0,1,0,2,0,1,0,0,0,0,0,0,2,0,0,0,1,0,0,1,1,0,1,0,0,0,0,0,0,0,1,0,0,0,0,0,0,0,0,0,0,0,0,0,0,0,0,0,0,0,0,0,0,0,0,0,0,0,0,0,0,0,0,0,0,2,0,0,0,0,0,0,0,0,0,0,0,0,1,0,0,0,0,0,1,0,1,0,0,0,0,0,0,0,0,0,0,0,0,1,0,0,0,0,0,0,0,0,0,0,0,0,0,0,0,0,0,0,0,0,0,0,0,0,0,0,0,0,1,0,0,1,0,0,0,0,1,0,0,0,1,1,1,0,1,1,0,0,0,0,0,0,1,2,0,0,0,0,0,0,0,0,0,0,0,0,0,0,0,1,0,0,0,0,0,0,0,0,0,0,0,0,0,0,0,0,1,1,0,0,0,0,0,0,0,0,0,1,0,0,0,0,0,0,0,0,0,0,0,0,0,0,0,0,0,0,1,0,0,0,1,0,0,0,0,0,0,0,0,0,0,0,0,0,0,0,0,0,0,0,1,0,0,0,0,0,0,0,0,0,0,0,0,0,0,0,0,0,0,0,0,0,0,0,0,0,0,0,1,1,0,1,0,2,1,3,0,0],[0,0,0,0,2,1,0,0,0,0,0,0,0,0,0,0,0,1,0,0,0,1,0,0,0,0,0,0,0,0,1,0,0,0,0,0,0,0,0,0,0,0,0,0,0,0,0,0,0,0,0,0,1,0,0,0,0,0,0,0,0,0,0,0,0,0,0,0,0,0,0,0,0,0,0,0,0,0,0,0,0,0,0,0,0,0,0,0,0,0,0,0,0,0,0,0,0,0,0,0,0,0,0,0,0,0,0,0,0,0,0,0,0,0,0,1,0,0,0,0,0,0,0,0,0,0,0,0,0,0,0,0,0,0,0,0,0,0,0,1,0,0,0,0,1,0,0,0,0,0,0,0,0,0,0,0,0,0,0,0,0,0,0,0,0,0,0,0,0,0,0,0,0,0,0,0,0,0,0,0,0,0,0,1,0,0,0,0,0,0,0,0,0,0,0,1,0,0,0,0,0,0,0,0,0,0,0,0,0,2,0,0,0,0,0,0,0,0,0,0,0,0,0,0,0,0,0,0,0,0,0,0,0,0,0,0,0,0,0,0,0,0,0,0,0,0,0,0,0,0,1,0,0,0,0,0,0,0,0,0,0,0,0,1,0,0,0,0,0,0,0,0,0,0,0,0,1,0,0,0,0,1,0,1,0,0,0,0,0,0],[0,0,0,0,0,0,0,0,0,0,0,0,0,0,0,0,0,0,0,0,0,0,0,0,0,0,0,0,0,0,0,0,0,0,0,0,0,0,0,0,0,0,0,0,0,0,0,1,0,0,0,0,0,0,0,0,0,0,1,0,0,0,0,0,0,0,0,0,0,0,0,0,0,0,1,0,0,0,0,0,0,0,0,0,0,0,0,0,0,0,1,0,0,0,0,0,0,0,0,0,0,0,0,0,0,0,0,0,0,0,0,0,0,0,0,0,0,0,0,1,0,0,0,1,0,0,0,0,0,0,0,0,0,0,0,0,0,0,0,0,0,0,0,0,0,0,0,0,0,0,0,0,0,0,0,0,0,0,0,0,0,0,0,0,0,0,0,0,0,0,0,0,0,0,0,0,0,0,0,0,0,0,0,0,0,0,0,0,0,0,0,0,0,0,0,1,0,0,0,1,0,0,1,1,0,0,0,0,0,0,1,0,0,0,0,0,0,0,0,0,0,0,0,0,0,0,0,1,0,0,0,0,0,0,0,0,0,0,0,0,0,0,0,0,0,0,0,0,0,0,0,0,0,0,0,0,0,0,0,0,0,0,0,0,0,0,0,0,0,0,0,0,0,0,0,0,0,0,0,0,0,0,0,0,0,0,0,0,0,0],[0,0,0,0,0,0,0,0,0,0,0,0,0,0,0,0,0,1,0,0,0,0,1,0,0,0,0,0,0,0,0,1,0,0,0,0,0,0,2,0,0,0,0,0,0,0,0,0,0,0,0,0,0,0,0,0,0,0,0,0,0,0,0,0,0,0,0,0,0,0,0,0,0,0,0,0,0,0,0,0,0,2,0,0,0,1,0,1,0,0,0,0,0,1,0,0,0,0,0,0,0,0,0,0,0,0,0,0,1,0,0,0,1,0,1,0,0,0,0,0,0,0,0,0,0,0,0,0,1,0,0,0,0,0,0,0,0,0,0,0,0,0,0,0,0,1,0,0,0,0,0,0,0,0,0,0,0,0,0,1,0,0,0,0,0,0,0,0,0,0,0,0,0,0,0,0,0,0,0,0,0,0,0,0,0,0,0,0,0,0,0,0,0,0,0,0,0,0,0,0,0,1,0,0,0,0,0,0,0,0,0,0,0,0,0,0,0,0,0,0,0,0,0,0,0,0,0,0,0,0,0,0,0,0,0,0,0,0,0,0,0,0,0,0,0,0,0,0,0,0,0,0,0,0,0,0,0,0,0,0,0,0,0,0,0,0,0,0,0,0,1,0,0,0,0,0,0,0,0,0,0,0,0,1,0,0,0,0,0,0],[0,0,0,0,0,0,0,0,0,0,1,1,0,0,0,2,0,2,0,1,0,0,0,1,1,1,1,0,0,0,0,0,0,1,1,0,0,1,0,0,0,0,1,1,1,0,0,0,0,0,1,0,0,0,0,0,1,0,0,0,0,0,0,0,0,0,0,0,0,1,0,0,0,0,0,0,0,0,0,0,0,1,0,0,0,0,0,0,0,0,0,0,0,0,1,0,0,0,0,0,1,0,0,0,1,0,0,0,0,0,0,0,0,0,0,0,0,0,0,0,0,0,0,1,0,0,0,0,0,0,0,0,0,1,0,0,0,0,0,0,0,0,0,0,0,0,1,0,0,2,1,0,0,0,0,0,0,0,0,0,0,0,0,0,0,0,0,0,0,0,0,0,0,0,0,0,0,0,0,0,0,0,1,0,0,0,1,0,0,0,0,0,0,0,1,1,0,0,0,0,0,1,0,0,0,0,1,1,0,0,0,0,0,1,0,0,1,0,0,0,0,0,1,0,0,0,0,0,0,0,0,0,0,0,0,0,0,0,0,0,0,0,0,0,0,0,0,0,0,0,0,1,0,0,0,0,0,0,0,0,0,0,0,0,0,0,0,0,0,0,0,1,1,0,1,1,0,1,1,1,0,0,0,0,1,0,0,0,1,0],[0,0,0,0,0,0,0,0,0,0,0,0,0,0,0,0,0,0,0,0,0,0,0,0,0,0,0,0,0,0,0,0,0,0,0,0,0,0,0,0,0,0,0,0,0,0,0,0,1,0,0,0,0,0,0,0,0,0,0,0,0,0,0,0,0,0,0,0,0,0,0,0,0,0,0,0,0,0,0,0,0,0,0,0,0,0,0,0,0,0,0,0,0,0,0,0,0,0,0,0,0,0,0,0,0,0,0,0,0,0,0,0,0,0,0,0,0,0,0,0,0,0,0,0,0,0,0,0,0,0,0,0,0,0,0,0,0,0,0,0,0,0,0,0,0,0,0,0,0,0,0,0,0,0,0,0,0,0,0,0,0,0,0,0,0,0,0,0,0,0,0,0,0,0,0,0,0,0,0,0,0,0,0,1,0,0,0,0,0,0,0,0,0,0,0,0,0,0,0,0,0,0,0,0,0,0,0,0,0,0,0,0,0,0,0,0,0,0,0,0,0,0,0,0,0,1,0,0,0,1,0,0,0,0,0,0,0,0,0,0,0,0,0,0,0,0,0,1,0,0,0,0,0,0,0,0,0,0,0,0,0,0,0,0,0,0,0,0,0,0,0,0,0,0,0,0,0,1,0,0,0,0,0,0,0,0,0,0,0,1]]},"evals":[],"jsHooks":[]}</script></div>
 </div>
   </div>
 

diff --git a/docs/articles/twitter.html b/docs/articles/twitter.html
@@ -67,8 +67,8 @@
 <div class="sourceCode"><pre class="sourceCode r"><code class="sourceCode r">the_query &lt;-<span class="st"> "#ESCAIDE2016 OR #ESCAIDE OR @ESCAIDE"</span></code></pre></div>
 <div class="sourceCode"><pre class="sourceCode r"><code class="sourceCode r">tweets &lt;-<span class="st"> </span><span class="kw">search_tweets</span>(the_query, <span class="dt">n =</span> <span class="dv">15000</span>, <span class="dt">type=</span><span class="st">"recent"</span>, <span class="dt">token =</span> twitter_token)</code></pre></div>
 <div class="sourceCode"><pre class="sourceCode r"><code class="sourceCode r">DT::<span class="kw">datatable</span>(<span class="kw">head</span>(tweets))</code></pre></div>
-<div id="htmlwidget-1572" style="width:100%;height:auto;" class="datatables html-widget"></div>
-<script type="application/json" data-for="htmlwidget-1572">{"x":{"filter":"none","data":[["1","2","3","4","5","6"],["2016-12-02T20:34:18Z","2016-12-02T19:05:56Z","2016-12-02T18:40:01Z","2016-12-02T10:49:47Z","2016-12-02T07:40:04Z","2016-12-02T07:10:49Z"],[8.0478578598366e+17,8.04763547158737e+17,8.04757026442281e+17,8.04638688634348e+17,8.04590945115271e+17,8.04583582324969e+17],[6,0,0,22,8,8],[0,1,2,0,0,0],["RT @ECDC_TB: 1 out of 5 #tuberculosis patients has extrapulmonary TB, see ECDC full infographic here: https://t.co/nOpq6sJtXn #ESCAIDE2016","@StineNielsenEPI @Ammer_B @ESCAIDE @EANBoard absolutely essential topic, and a great exchange: public health is founded on #socialjustice","Dead but happy after an amazing #escaide2016. Thanks to @ESCAIDE! \nVery exciting things coming up with training programmes and #RECON.","RT @ECDC_Outbreaks: ECDC&amp;amp;EFSA report on foodborne diseases in the EU shows that Listeria cases have risen over recent years #ESCAIDE2016 ht","RT @VaccinesEurope: VE President @A_Rappagliosi at #ESCAIDE2016 on challenges to achieve optimal immunisation programmes #vaccines #vaccine","RT @VaccinesEurope: VE President @A_Rappagliosi at #ESCAIDE2016 on challenges to achieve optimal immunisation programmes #vaccines #vaccine"],[null,8.03543778153865e+17,null,null,null,null],[null,499153417,null,null,null,null],[null,"StineNielsenEPI",null,null,null,null],[false,false,false,false,true,true],[null,null,null,null,8.03885507012887e+17,8.03885507012887e+17],["Twitter for Android","Twitter Web Client","Twitter Web Client","Twitter for iPhone","Twitter for iPhone","Twitter for iPad"],["en","en","en","en","en","en"],[1495602342,34617210,1408449174,450621858,2160870648,165515893],["askraenzel","teachepi","TeebzR","CorradoConfa","juliettepayet","DutilleulAlain"],[1282878908,[499153417,114968487,2974549409,2800371230],2974549409,2754484003,[1262320285,2271928484],[1262320285,2271928484]],["ECDC_TB",["StineNielsenEPI","Ammer_B","ESCAIDE","EANBoard"],"ESCAIDE","ECDC_Outbreaks",["VaccinesEurope","A_Rappagliosi"],["VaccinesEurope","A_Rappagliosi"]],[["tuberculosis","ESCAIDE2016"],"socialjustice",["escaide2016","RECON"],"ESCAIDE2016",["ESCAIDE2016","vaccines"],["ESCAIDE2016","vaccines"]],["http://bit.ly/2gkhAOW",null,null,null,null,null],[true,false,false,true,true,true],["803969568251244545",null,null,"803548122458849280","803886760795185152","803886760795185152"],[null,null,null,null,null,null],[null,null,null,null,null,null],[null,null,null,null,null,null]],"container":"<table class=\"display\">\n  <thead>\n    <tr>\n      <th> \u003c/th>\n      <th>created_at\u003c/th>\n      <th>status_id\u003c/th>\n      <th>retweet_count\u003c/th>\n      <th>favorite_count\u003c/th>\n      <th>text\u003c/th>\n      <th>in_reply_to_status_id\u003c/th>\n      <th>in_reply_to_user_id\u003c/th>\n      <th>in_reply_to_screen_name\u003c/th>\n      <th>is_quote_status\u003c/th>\n      <th>quoted_status_id\u003c/th>\n      <th>source\u003c/th>\n      <th>lang\u003c/th>\n      <th>user_id\u003c/th>\n      <th>screen_name\u003c/th>\n      <th>mentions_user_id\u003c/th>\n      <th>mentions_screen_name\u003c/th>\n      <th>hashtags\u003c/th>\n      <th>urls\u003c/th>\n      <th>is_retweet\u003c/th>\n      <th>retweet_status_id\u003c/th>\n      <th>place_name\u003c/th>\n      <th>country\u003c/th>\n      <th>coordinates\u003c/th>\n    \u003c/tr>\n  \u003c/thead>\n\u003c/table>","options":{"columnDefs":[{"className":"dt-right","targets":[2,3,4,6,7,10,13]},{"orderable":false,"targets":0}],"order":[],"autoWidth":false,"orderClasses":false}},"evals":[],"jsHooks":[]}</script><p>A total of 1133 tweets were collected.</p>
+<div id="htmlwidget-8343" style="width:100%;height:auto;" class="datatables html-widget"></div>
+<script type="application/json" data-for="htmlwidget-8343">{"x":{"filter":"none","data":[["1","2","3","4","5","6"],["2016-12-02T20:34:18Z","2016-12-02T19:05:56Z","2016-12-02T18:40:01Z","2016-12-02T10:49:47Z","2016-12-02T07:40:04Z","2016-12-02T07:10:49Z"],[8.0478578598366e+17,8.04763547158737e+17,8.04757026442281e+17,8.04638688634348e+17,8.04590945115271e+17,8.04583582324969e+17],[6,0,0,22,8,8],[0,1,2,0,0,0],["RT @ECDC_TB: 1 out of 5 #tuberculosis patients has extrapulmonary TB, see ECDC full infographic here: https://t.co/nOpq6sJtXn #ESCAIDE2016","@StineNielsenEPI @Ammer_B @ESCAIDE @EANBoard absolutely essential topic, and a great exchange: public health is founded on #socialjustice","Dead but happy after an amazing #escaide2016. Thanks to @ESCAIDE! \nVery exciting things coming up with training programmes and #RECON.","RT @ECDC_Outbreaks: ECDC&amp;amp;EFSA report on foodborne diseases in the EU shows that Listeria cases have risen over recent years #ESCAIDE2016 ht","RT @VaccinesEurope: VE President @A_Rappagliosi at #ESCAIDE2016 on challenges to achieve optimal immunisation programmes #vaccines #vaccine","RT @VaccinesEurope: VE President @A_Rappagliosi at #ESCAIDE2016 on challenges to achieve optimal immunisation programmes #vaccines #vaccine"],[null,8.03543778153865e+17,null,null,null,null],[null,499153417,null,null,null,null],[null,"StineNielsenEPI",null,null,null,null],[false,false,false,false,true,true],[null,null,null,null,8.03885507012887e+17,8.03885507012887e+17],["Twitter for Android","Twitter Web Client","Twitter Web Client","Twitter for iPhone","Twitter for iPhone","Twitter for iPad"],["en","en","en","en","en","en"],[1495602342,34617210,1408449174,450621858,2160870648,165515893],["askraenzel","teachepi","TeebzR","CorradoConfa","juliettepayet","DutilleulAlain"],[1282878908,[499153417,114968487,2974549409,2800371230],2974549409,2754484003,[1262320285,2271928484],[1262320285,2271928484]],["ECDC_TB",["StineNielsenEPI","Ammer_B","ESCAIDE","EANBoard"],"ESCAIDE","ECDC_Outbreaks",["VaccinesEurope","A_Rappagliosi"],["VaccinesEurope","A_Rappagliosi"]],[["tuberculosis","ESCAIDE2016"],"socialjustice",["escaide2016","RECON"],"ESCAIDE2016",["ESCAIDE2016","vaccines"],["ESCAIDE2016","vaccines"]],["http://bit.ly/2gkhAOW",null,null,null,null,null],[true,false,false,true,true,true],["803969568251244545",null,null,"803548122458849280","803886760795185152","803886760795185152"],[null,null,null,null,null,null],[null,null,null,null,null,null],[null,null,null,null,null,null]],"container":"<table class=\"display\">\n  <thead>\n    <tr>\n      <th> \u003c/th>\n      <th>created_at\u003c/th>\n      <th>status_id\u003c/th>\n      <th>retweet_count\u003c/th>\n      <th>favorite_count\u003c/th>\n      <th>text\u003c/th>\n      <th>in_reply_to_status_id\u003c/th>\n      <th>in_reply_to_user_id\u003c/th>\n      <th>in_reply_to_screen_name\u003c/th>\n      <th>is_quote_status\u003c/th>\n      <th>quoted_status_id\u003c/th>\n      <th>source\u003c/th>\n      <th>lang\u003c/th>\n      <th>user_id\u003c/th>\n      <th>screen_name\u003c/th>\n      <th>mentions_user_id\u003c/th>\n      <th>mentions_screen_name\u003c/th>\n      <th>hashtags\u003c/th>\n      <th>urls\u003c/th>\n      <th>is_retweet\u003c/th>\n      <th>retweet_status_id\u003c/th>\n      <th>place_name\u003c/th>\n      <th>country\u003c/th>\n      <th>coordinates\u003c/th>\n    \u003c/tr>\n  \u003c/thead>\n\u003c/table>","options":{"columnDefs":[{"className":"dt-right","targets":[2,3,4,6,7,10,13]},{"orderable":false,"targets":0}],"order":[],"autoWidth":false,"orderClasses":false}},"evals":[],"jsHooks":[]}</script><p>A total of 1133 tweets were collected.</p>
 <div id="descriptive-analysis" class="section level3">
 <h3 class="hasAnchor"><html><body><a href="#descriptive-analysis" class="anchor"> </a></body></html>Descriptive Analysis</h3>
 <p>Who&rsquo;s tweeting? The tweets originate from a total of 256 users. The top 25 users (by their number of tweets) are:</p>
@@ -120,7 +120,7 @@ ts2 &lt;-<span class="st"> </span>allTimes %&gt;%<span class="st"> </span><span 
 na2zero &lt;-<span class="st"> </span>function(x) {x[<span class="kw">is.na</span>(x)] &lt;-<span class="st"> </span><span class="dv">0</span> ; <span class="kw">return</span>(x)}
 
 ts2 &lt;-<span class="st"> </span>ts2 %&gt;%<span class="st"> </span><span class="kw">mutate</span>(<span class="dt">n_retweets =</span> <span class="kw">na2zero</span>(n_retweets),
-                      <span class="dt">n_noretweets =</span> <span class="kw">na2zero</span>(n_noretweets)) %&gt;%<span class="st"> </span>
+                      <span class="dt">n_noretweets =</span> <span class="kw">na2zero</span>(n_noretweets)) %&gt;%
 <span class="st">  </span><span class="kw">rename</span>(<span class="dt">retweet =</span> n_retweets, <span class="dt">no_retweet =</span> n_noretweets)
 ts3 &lt;-<span class="st"> </span>tidyr::<span class="kw">gather</span>(ts2, group, n, retweet:no_retweet)
 ts3 &lt;-<span class="st"> </span>ts3 %&gt;%<span class="st"> </span><span class="kw">mutate</span>(<span class="dt">group =</span> <span class="kw">factor</span>(group))</code></pre></div>
@@ -129,9 +129,9 @@ ts3 &lt;-<span class="st"> </span>ts3 %&gt;%<span class="st"> </span><span class
 <span class="st">  </span><span class="kw">theme</span>(<span class="dt">axis.text.x=</span><span class="kw">element_text</span>(<span class="dt">angle=</span><span class="dv">90</span>, <span class="dt">hjust=</span><span class="dv">1</span>)) +
 <span class="st">  </span><span class="kw">ylab</span>(<span class="st">"No. of tweets"</span>) +
 <span class="st">  </span><span class="kw">xlab</span>(<span class="st">"Time"</span>) +<span class="st"> </span><span class="kw">ggtitle</span>(the_query) +
-<span class="st">  </span><span class="kw">scale_x_datetime</span>(<span class="dt">date_minor_breaks=</span><span class="st">"1 hour"</span>,<span class="dt">date_breaks=</span><span class="st">"1 hour"</span>,<span class="dt">date_labels=</span><span class="st">"Nov %d-%H:00"</span>) +
+<span class="st">  </span><span class="kw">scale_x_datetime</span>(<span class="dt">date_minor_breaks=</span><span class="st">"1 hour"</span>,<span class="dt">date_breaks=</span><span class="st">"1 hour"</span>,<span class="dt">date_labels=</span><span class="st">"Nov %d-%H:00"</span>, <span class="dt">expand=</span><span class="kw">c</span>(<span class="fl">0.5</span>/<span class="dv">24</span>,<span class="fl">0.5</span>/<span class="dv">24</span>)) +
 <span class="st">  </span><span class="kw">theme</span>(<span class="dt">axis.text.x =</span> <span class="kw">element_text</span>(<span class="dt">angle =</span> <span class="dv">60</span>, <span class="dt">size =</span> <span class="dv">6</span>), <span class="dt">legend.position =</span> <span class="st">"bottom"</span>) +
-<span class="st">  </span>viridis::<span class="kw">scale_fill_viridis</span>(<span class="dt">discrete =</span> <span class="ot">TRUE</span>, <span class="dt">name=</span><span class="st">"Tweet Type"</span>, <span class="dt">label =</span> <span class="kw">c</span>(<span class="st">"Standard tweet"</span>, 
+<span class="st">  </span>viridis::<span class="kw">scale_fill_viridis</span>(<span class="dt">discrete =</span> <span class="ot">TRUE</span>, <span class="dt">name=</span><span class="st">"Tweet Type"</span>, <span class="dt">label =</span> <span class="kw">c</span>(<span class="st">"Standard tweet"</span>,
                                                                             <span class="st">"Outbreak tweet/retweet"</span>))
 p</code></pre></div>
 <p><img src="twitter_files/figure-html/unnamed-chunk-12-1.png" width="672" style="display: block; margin: auto;"></p>
@@ -184,10 +184,10 @@ monitored_tweets_df &lt;-<span class="st"> </span><span class="kw">mutate</span>
 <span class="st">  </span><span class="kw">theme</span>(<span class="dt">axis.text.x=</span><span class="kw">element_text</span>(<span class="dt">angle=</span><span class="dv">90</span>, <span class="dt">hjust=</span><span class="dv">1</span>)) +
 <span class="st">  </span><span class="kw">ylab</span>(<span class="st">"No. of tweets"</span>) +
 <span class="st">  </span><span class="kw">xlab</span>(<span class="st">"Time"</span>) +<span class="st"> </span><span class="kw">ggtitle</span>(the_query) +
-<span class="st">  </span><span class="kw">scale_x_datetime</span>(<span class="dt">date_minor_breaks=</span><span class="st">"1 hour"</span>,<span class="dt">date_breaks=</span><span class="st">"1 hour"</span>,<span class="dt">date_labels=</span><span class="st">"Nov %d-%H:00"</span>) +
-<span class="st">  </span><span class="kw">theme</span>(<span class="dt">axis.text.x =</span> <span class="kw">element_text</span>(<span class="dt">angle =</span> <span class="dv">60</span>, <span class="dt">size =</span> <span class="dv">6</span>)) +<span class="st"> </span>
+<span class="st">  </span><span class="kw">scale_x_datetime</span>(<span class="dt">date_minor_breaks=</span><span class="st">"1 hour"</span>,<span class="dt">date_breaks=</span><span class="st">"1 hour"</span>,<span class="dt">date_labels=</span><span class="st">"Nov %d-%H:00"</span>, <span class="dt">expand=</span><span class="kw">c</span>(<span class="fl">0.5</span>/<span class="dv">24</span>,<span class="fl">0.5</span>/<span class="dv">24</span>)) +
+<span class="st">  </span><span class="kw">theme</span>(<span class="dt">axis.text.x =</span> <span class="kw">element_text</span>(<span class="dt">angle =</span> <span class="dv">60</span>, <span class="dt">size =</span> <span class="dv">6</span>)) +
 <span class="st">  </span><span class="kw">geom_point</span>(<span class="dt">data =</span> <span class="kw">filter</span>(monitored_tweets_df, alarm), <span class="kw">aes</span>(<span class="dt">x =</span> time), <span class="dt">y =</span> <span class="dv">0</span>, <span class="dt">color =</span> <span class="st">"red"</span>) +
-<span class="st">  </span>viridis::<span class="kw">scale_fill_viridis</span>(<span class="dt">discrete =</span> <span class="ot">TRUE</span>, <span class="dt">name=</span><span class="st">"Tweet Type"</span>, <span class="dt">label =</span> <span class="kw">c</span>(<span class="st">"Standard tweet"</span>, 
+<span class="st">  </span>viridis::<span class="kw">scale_fill_viridis</span>(<span class="dt">discrete =</span> <span class="ot">TRUE</span>, <span class="dt">name=</span><span class="st">"Tweet Type"</span>, <span class="dt">label =</span> <span class="kw">c</span>(<span class="st">"Standard tweet"</span>,
                                                                             <span class="st">"Our outbreak tweet/retweet"</span>))</code></pre></div>
 <p><img src="twitter_files/figure-html/ears-1.png" width="672" style="display: block; margin: auto;"></p>
 <div id="instant-citizen-science-experiment" class="section level3">
